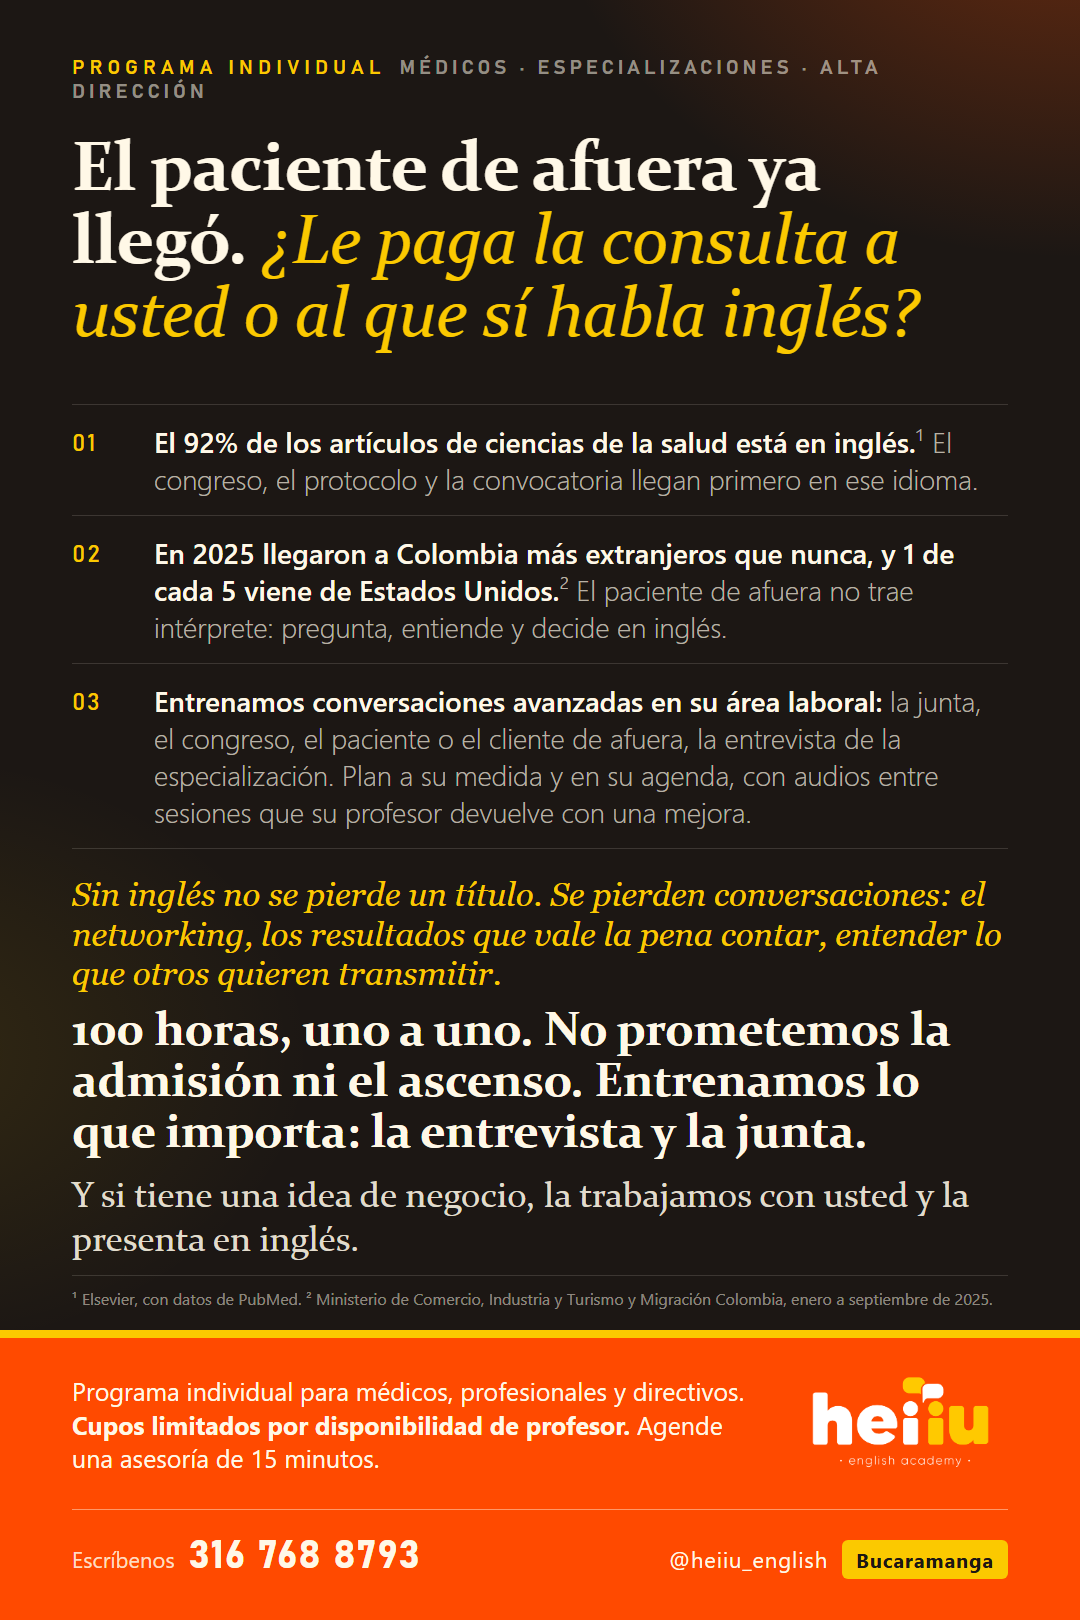
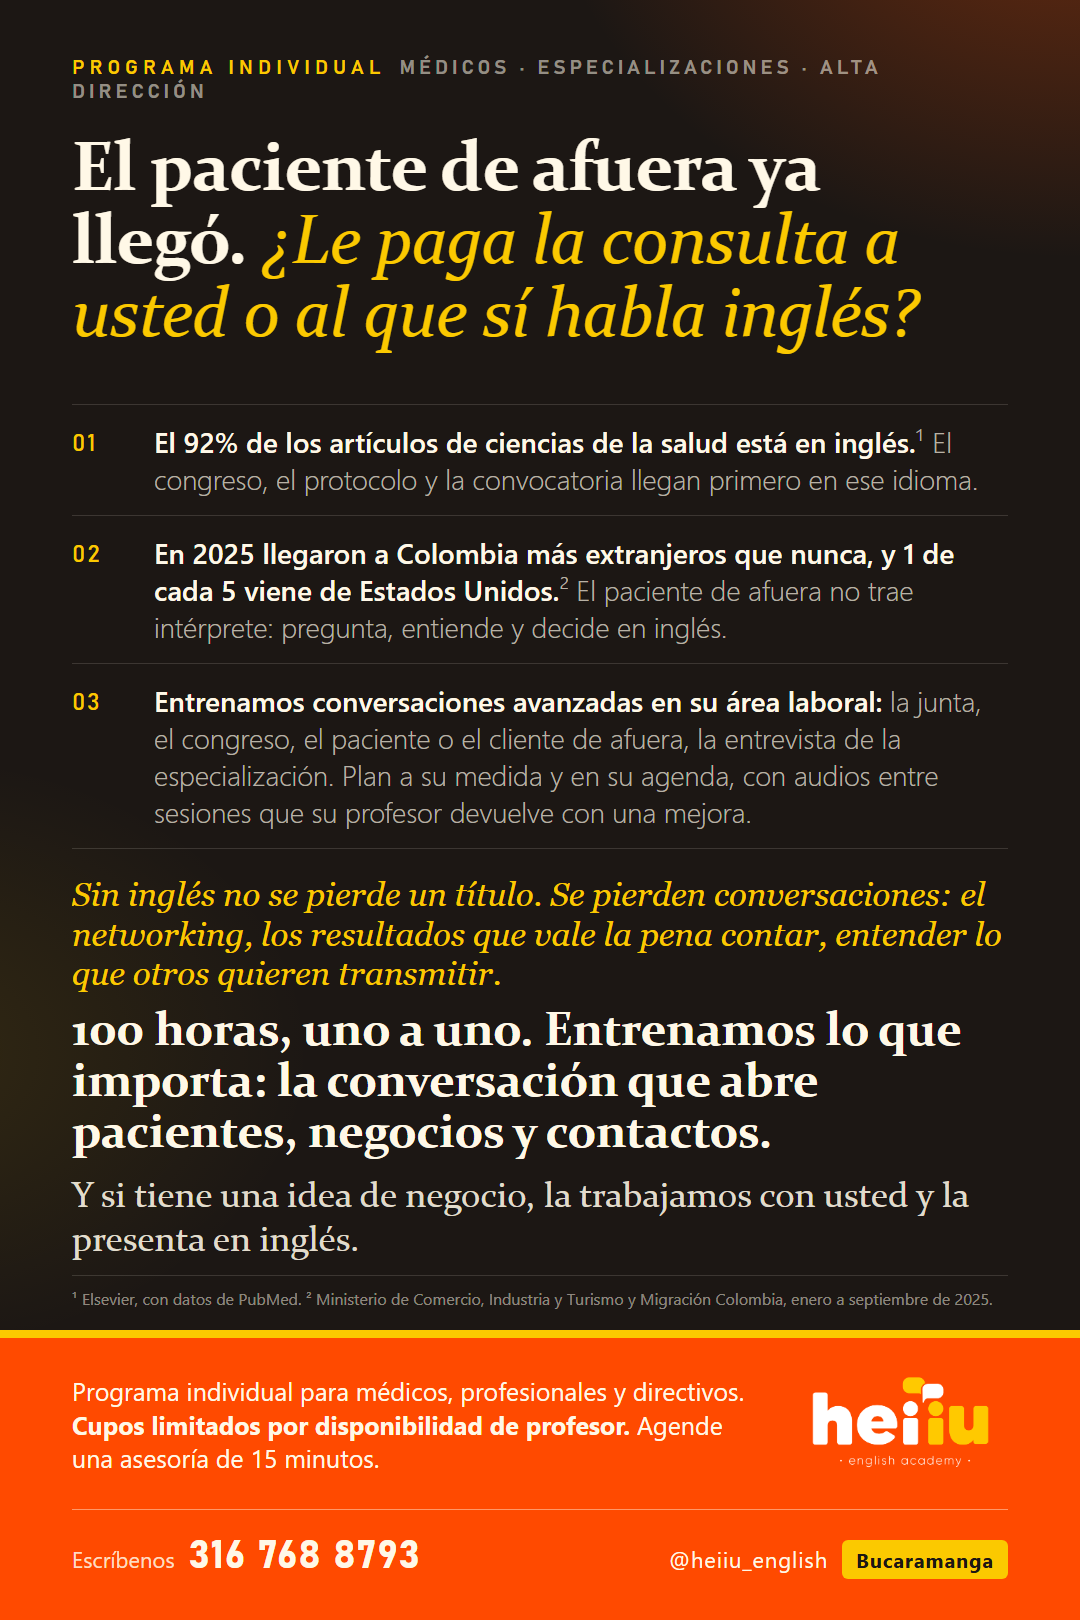
Corta medicos: 'Entrenamos lo que importa: la conversacion que abre pacientes, negocios y contactos' (no todos van a entrevista o junta; lo que se busca es plata y contactos)

Changed region(s): [[0.0611, 0.6173, 0.8861, 0.7099]]

diff --git a/generadores/comercial/gen_piezas_conciencia.py b/generadores/comercial/gen_piezas_conciencia.py
@@ -297,7 +297,7 @@ PIEZAS = {
             ('<b>En 2025 llegaron a Colombia más extranjeros que nunca, y 1 de cada 5 viene de Estados Unidos.</b>² El paciente de afuera no trae intérprete: pregunta, entiende y decide en inglés.'),
             ('<b>Entrenamos conversaciones avanzadas en su área laboral:</b> la junta, el congreso, el paciente o el cliente de afuera, la entrevista de la especialización. Plan a su medida y en su agenda, con audios entre sesiones que su profesor devuelve con una mejora.')],
         lead='Sin inglés no se pierde un título. Se pierden conversaciones: el networking, los resultados que vale la pena contar, entender lo que otros quieren transmitir.',
-        big='100 horas, uno a uno. No prometemos la admisión ni el ascenso. Entrenamos lo que importa: la entrevista y la junta.',
+        big='100 horas, uno a uno. Entrenamos lo que importa: la conversación que abre pacientes, negocios y contactos.',
         big2='Y si tiene una idea de negocio, la trabajamos con usted y la presenta en inglés.', fn='¹ Elsevier, con datos de PubMed. ² Ministerio de Comercio, Industria y Turismo y Migración Colombia, enero a septiembre de 2025.',
         band='Programa individual para médicos, profesionales y directivos. <b>Cupos limitados por disponibilidad de profesor.</b> Agende una asesoría de 15 minutos.',
         band_px=290),
